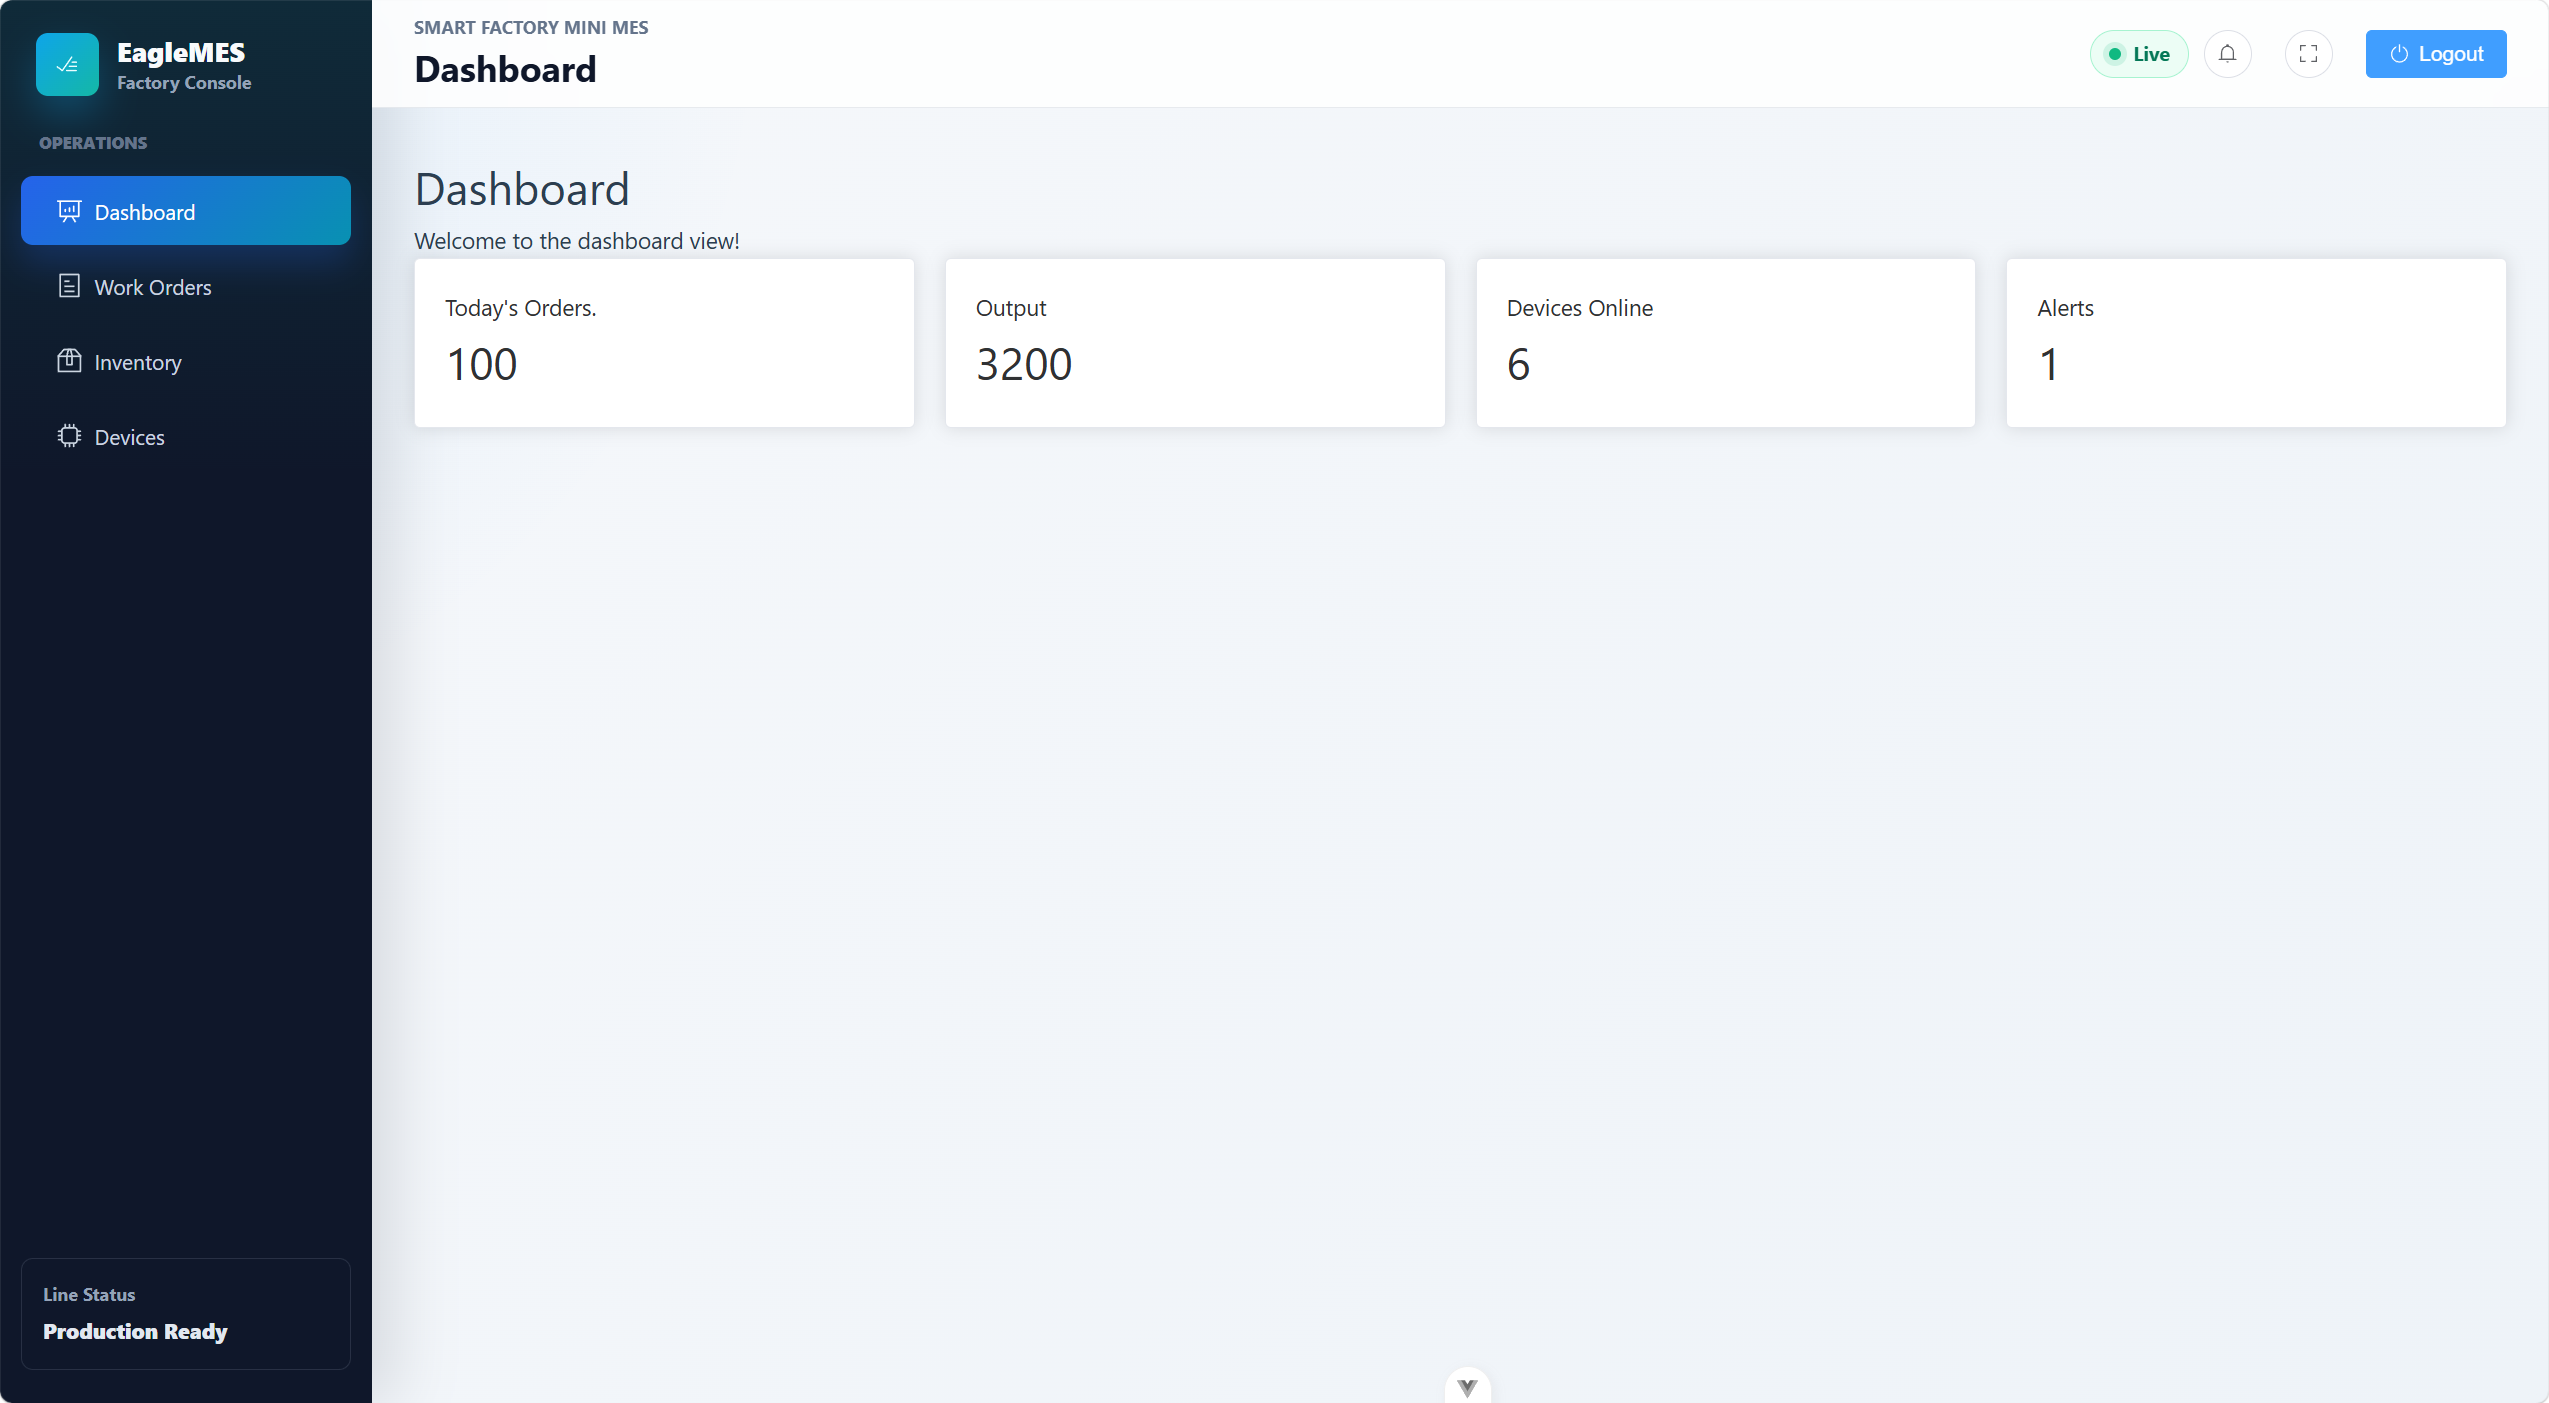
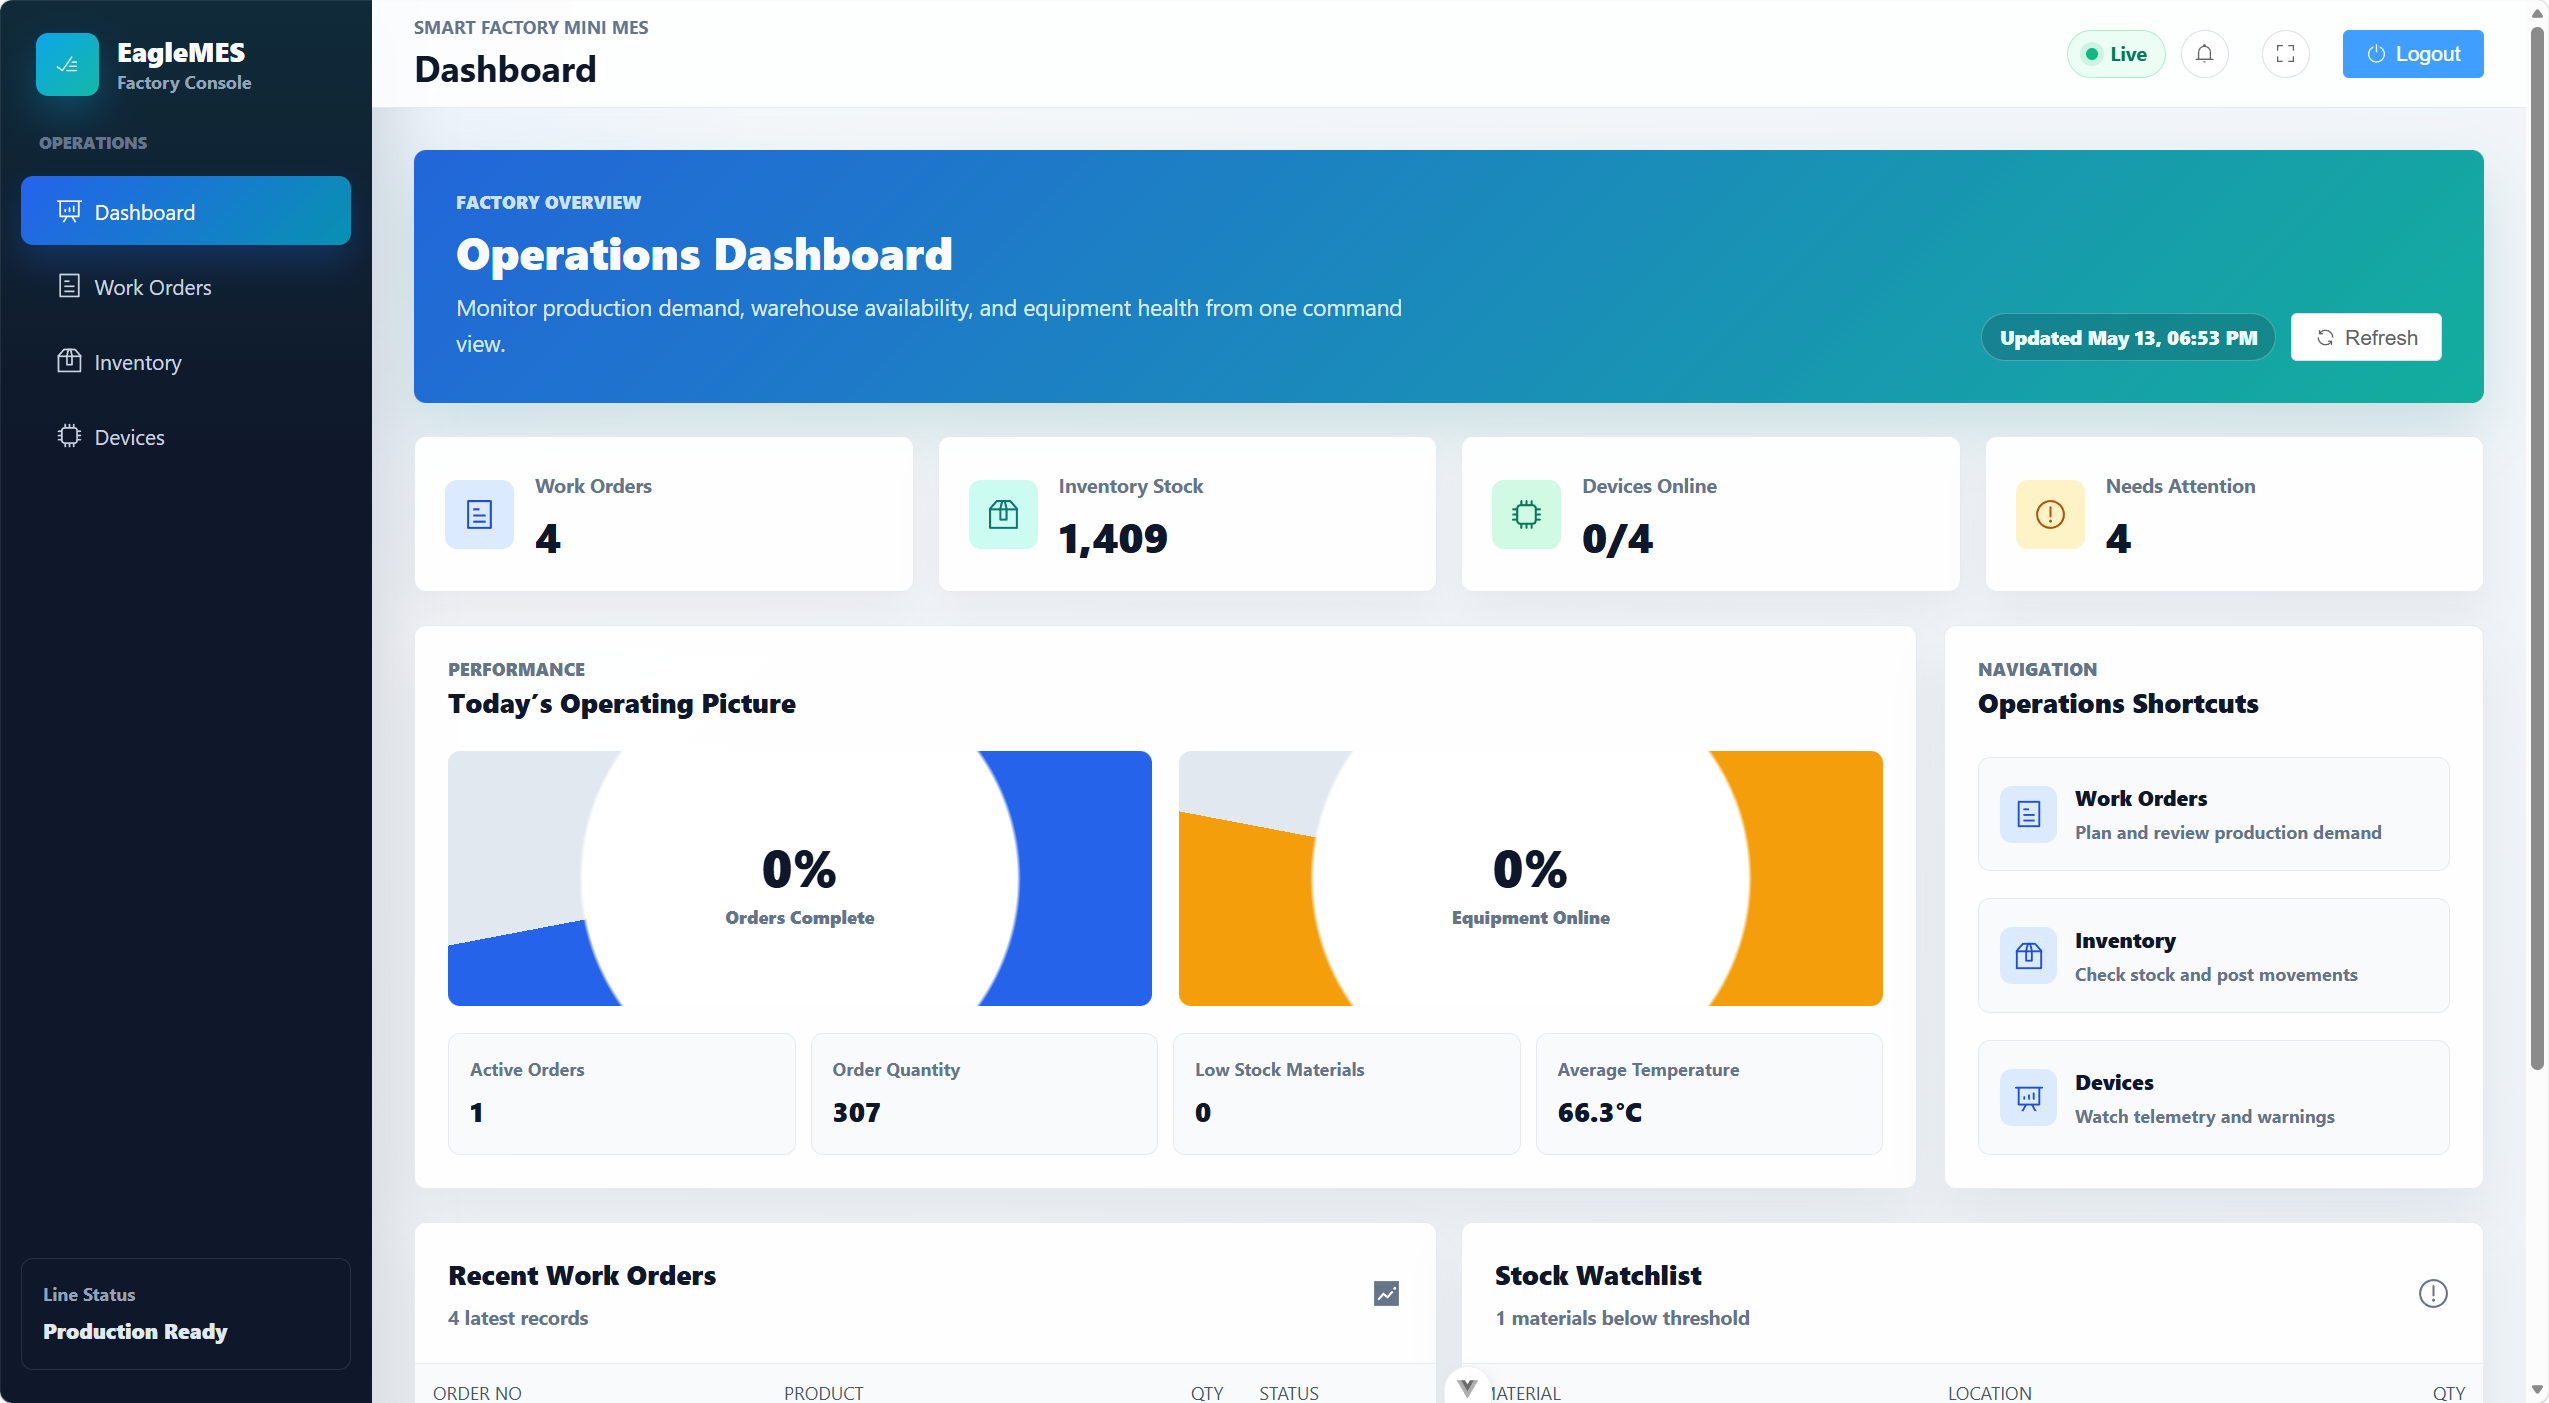
docs: Add new screenshots for WorkOrder, Inventory, Device

diff --git a/README.md b/README.md
@@ -12,6 +12,18 @@ This template should help get you started developing with Vue 3 in Vite.
 
 ![Dashboard screen](docs/screenshots/Dashboard.png)
 
+### Work Orders
+
+![Work Order screen](docs/screenshots/WorkOrder.png)
+
+### Inventory
+
+![Inventory screen](docs/screenshots/Inventory.png)
+
+### Device Monitor
+
+![Device Monitor screen](docs/screenshots/Device.png)
+
 ## Recommended IDE Setup
 
 [VS Code](https://code.visualstudio.com/) + [Vue (Official)](https://marketplace.visualstudio.com/items?itemName=Vue.volar) (and disable Vetur).
